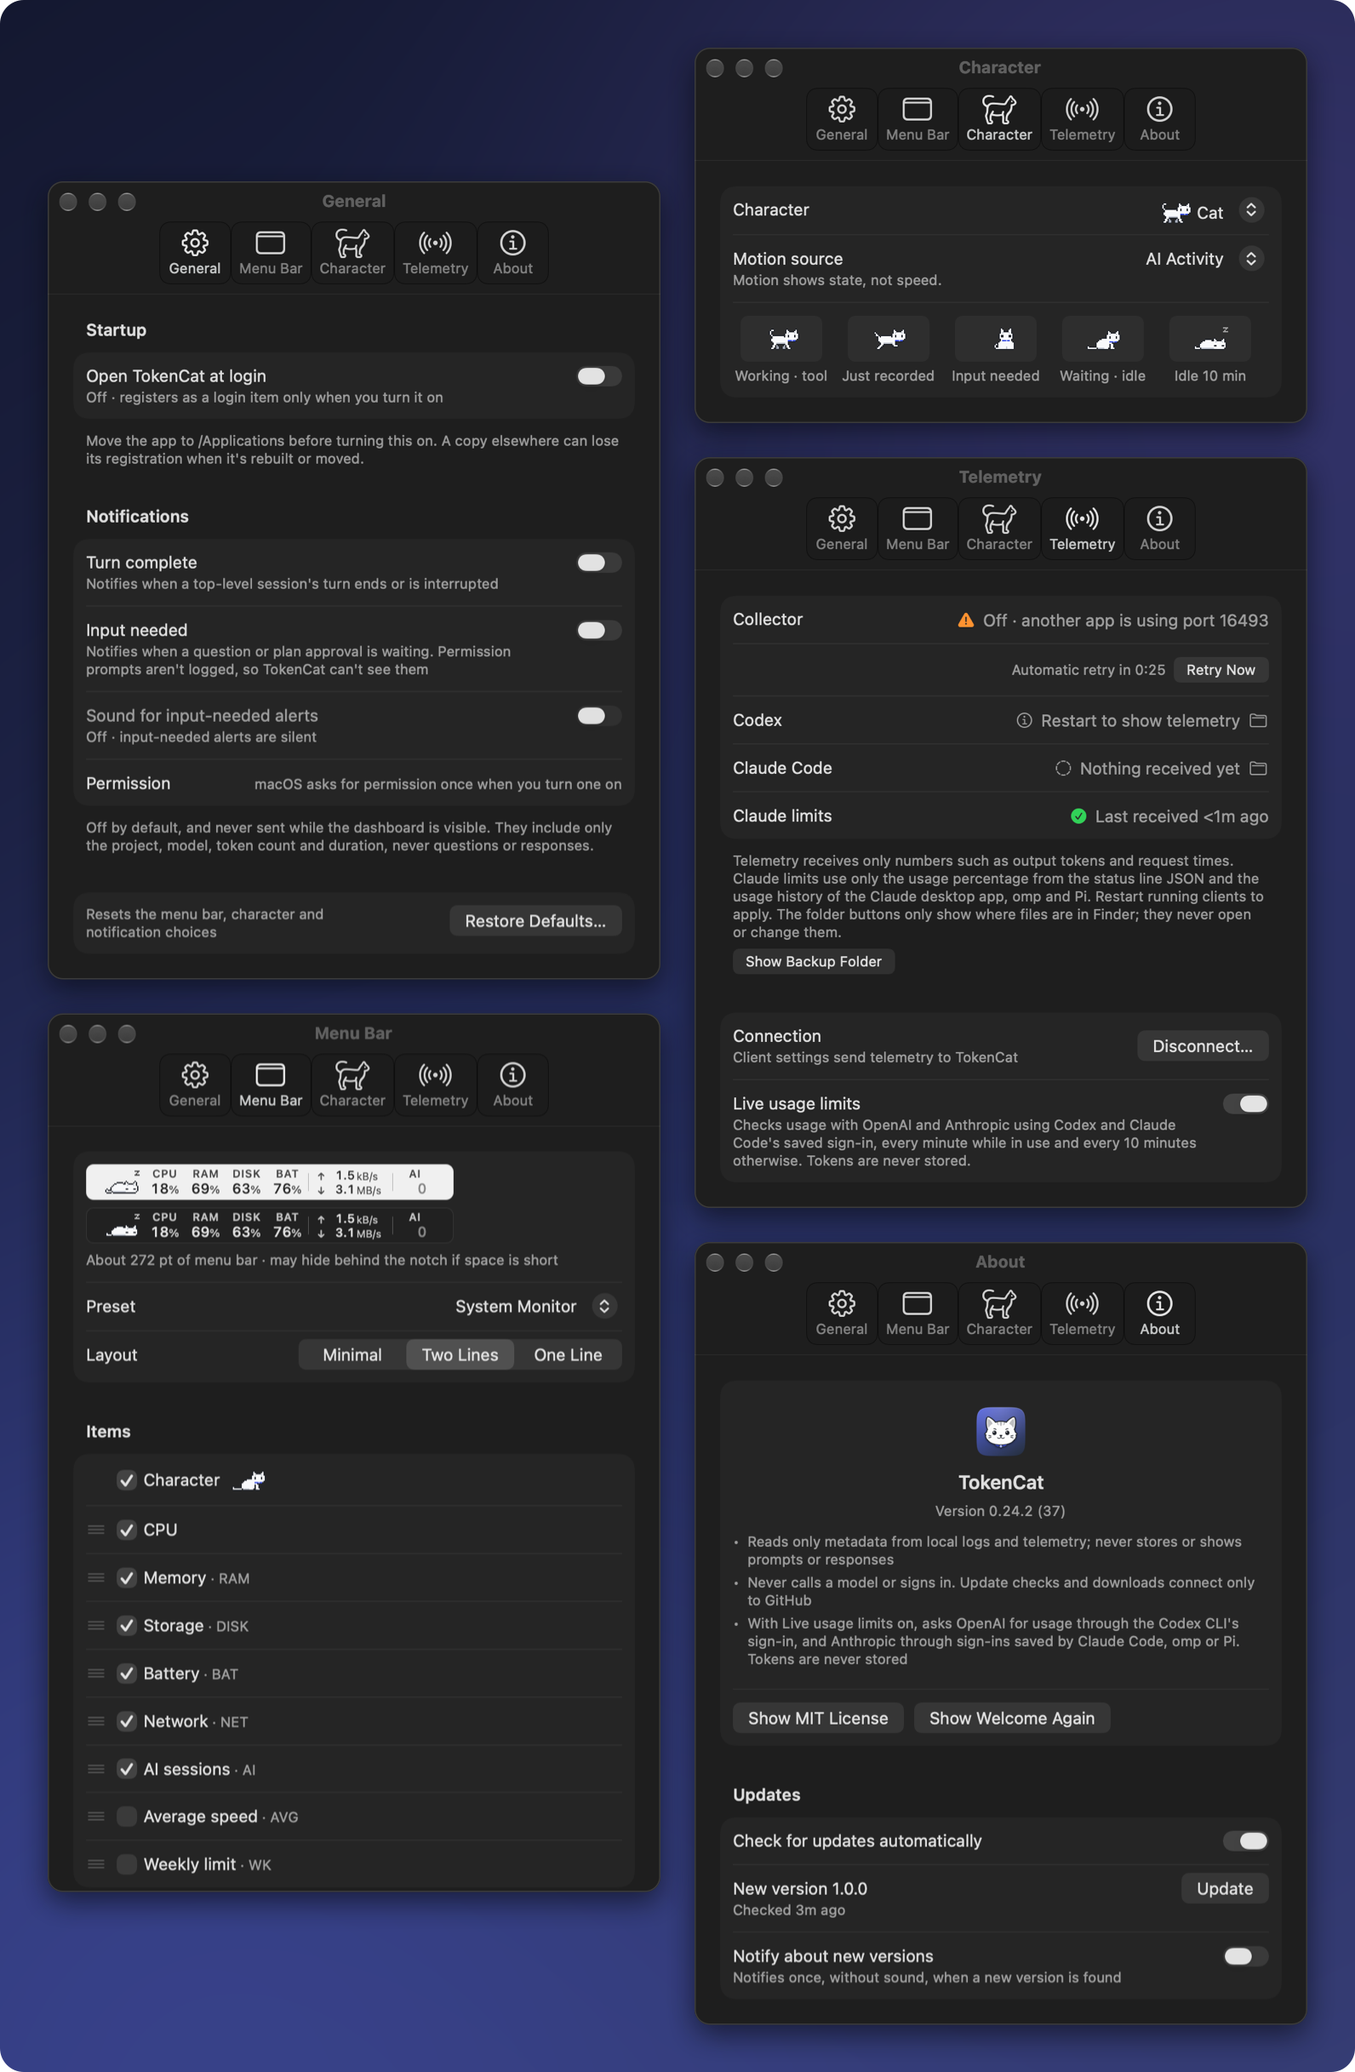
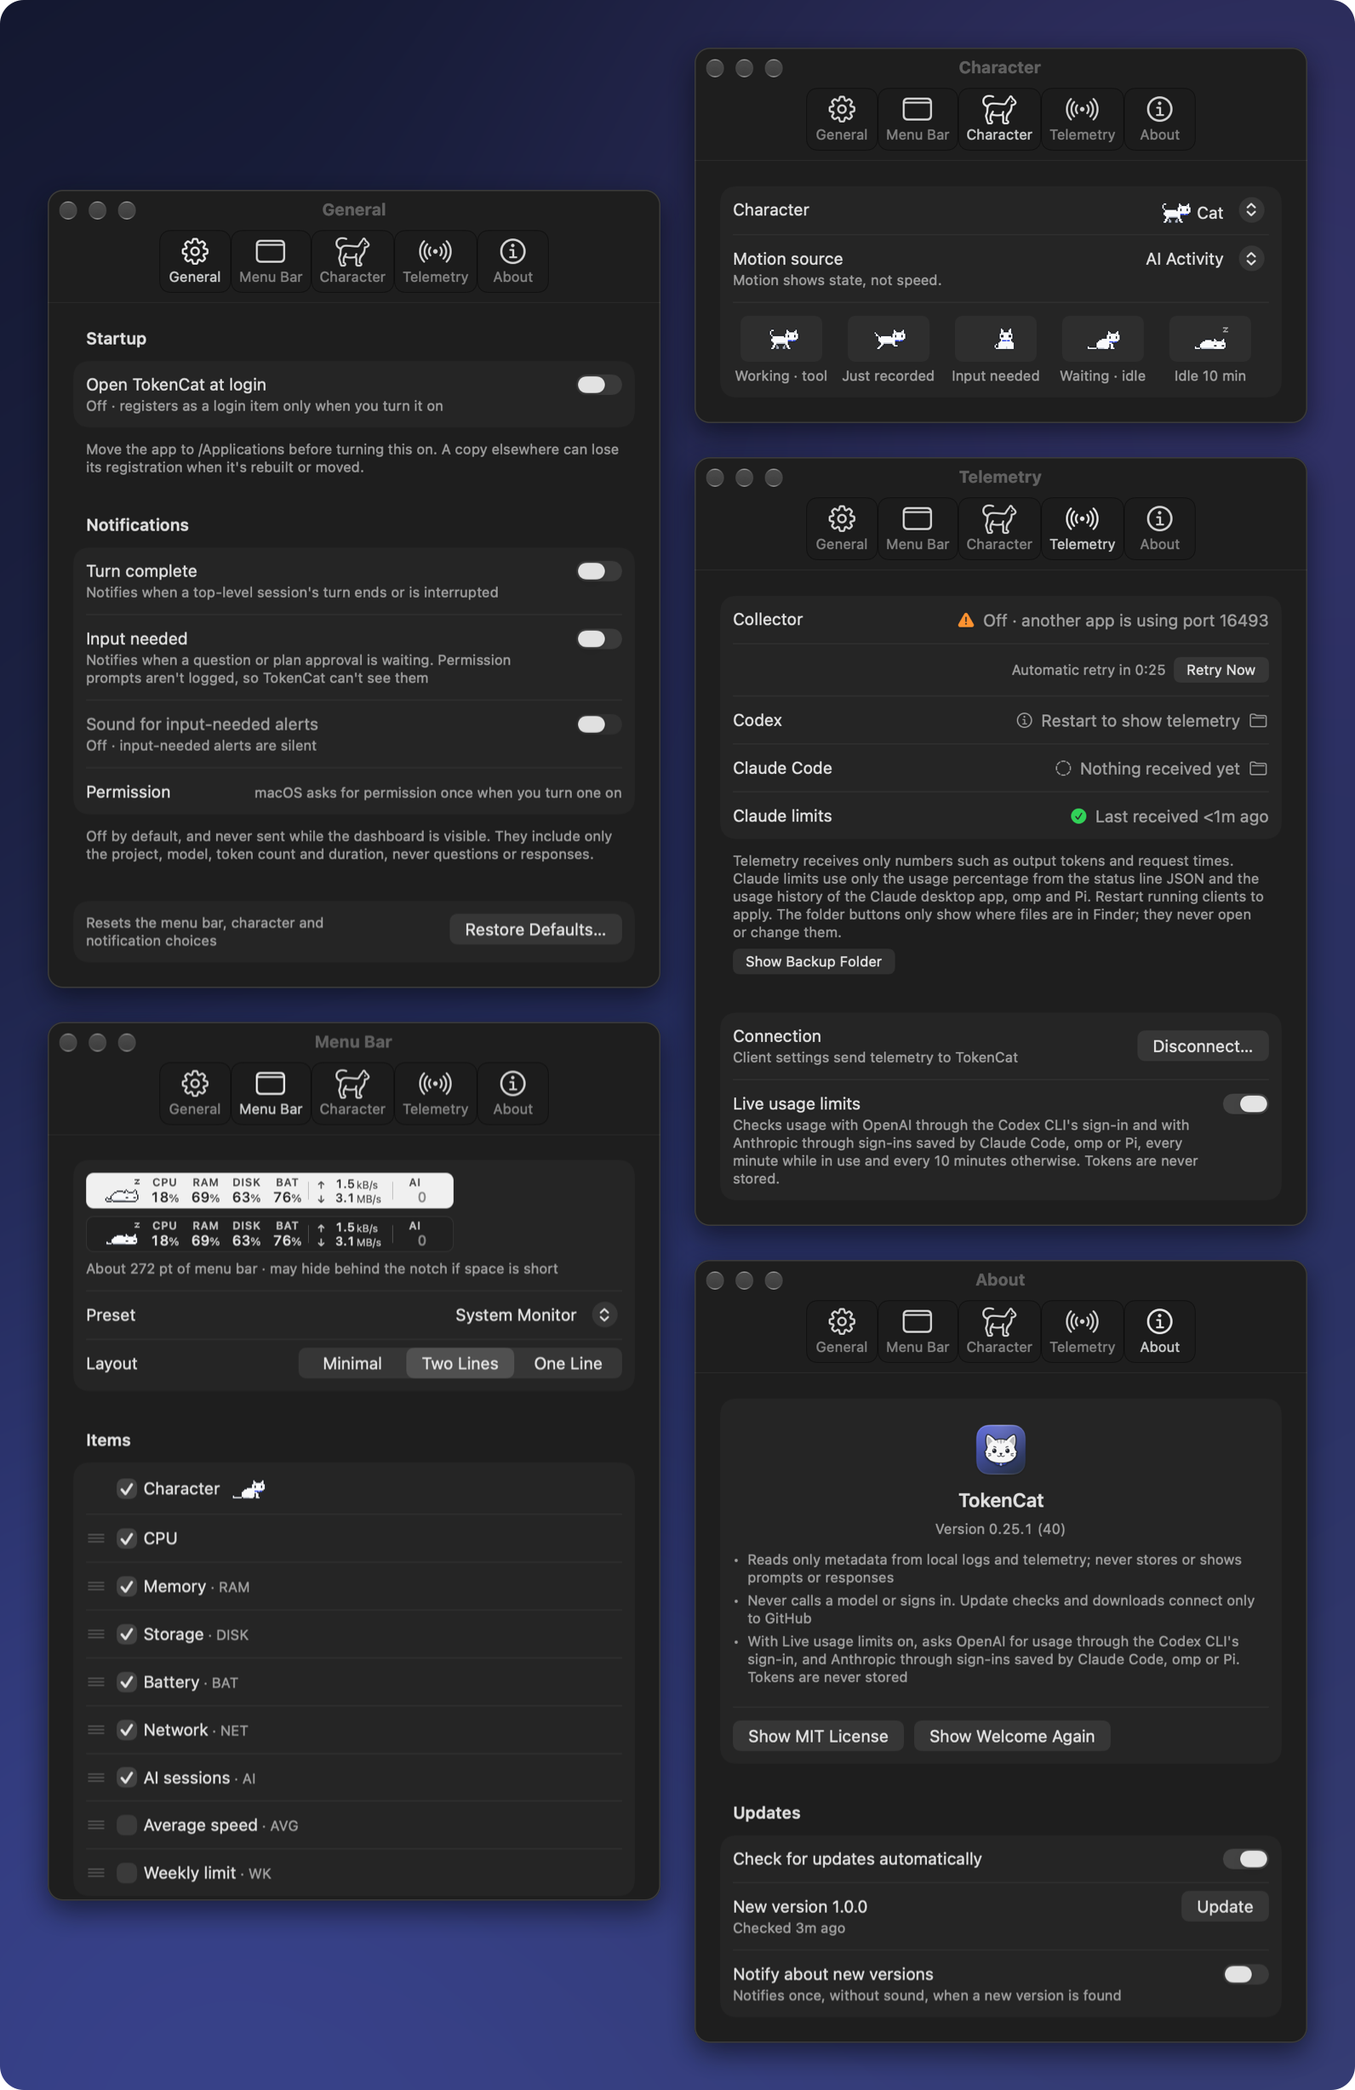
fix: 실시간 한도 확인 설명에 Anthropic은 Claude Code·omp·Pi 로그인으로 묻는다는 사실을 반영(설정·Windows 도움말·README 이미지)

diff --git a/Sources/TokenCat/SettingsView.swift b/Sources/TokenCat/SettingsView.swift
@@ -817,8 +817,8 @@ private struct TelemetryPane: View {
                 connection
                 Toggle(isOn: $preferences.liveUsageLimits) {
                     SettingsLabel(title: loc("실시간 한도 확인", "Live usage limits"),
-                                  subtitle: loc("Codex·Claude Code에 저장된 로그인으로 OpenAI·Anthropic 사용량을 사용 중에는 1분, 평소에는 10분마다 확인합니다. 토큰은 저장하지 않습니다.",
-                                                "Checks usage with OpenAI and Anthropic using Codex and Claude Code's saved sign-in, every minute while in use and every 10 minutes otherwise. Tokens are never stored."))
+                                  subtitle: loc("OpenAI는 Codex CLI, Anthropic은 Claude Code·omp·Pi에 저장된 로그인으로 사용 중에는 1분, 평소에는 10분마다 사용량을 확인합니다. 토큰은 저장하지 않습니다.",
+                                                "Checks usage with OpenAI through the Codex CLI's sign-in and with Anthropic through sign-ins saved by Claude Code, omp or Pi, every minute while in use and every 10 minutes otherwise. Tokens are never stored."))
                 }
                 .help(loc("세션이 실행 중이거나 TokenCat 창이 열려 있으면 1분마다, 그 밖에는 10분마다 확인하고, 화면이나 Mac이 잠자는 동안은 멈춥니다. 만료된 Claude 토큰은 보내지 않고 갱신하지도 않습니다.",
                           "Checks every minute while a session runs or a TokenCat window is open, otherwise every 10 minutes, and pauses while the screens or the Mac sleep. An expired Claude token is never sent or refreshed."))

diff --git a/windows/TokenCat.Core/Presentation/SessionPresentation.cs b/windows/TokenCat.Core/Presentation/SessionPresentation.cs
@@ -344,7 +344,8 @@ public sealed record UsageLimitSummary(double UsedPercent, int? WindowMinutes, D
         var basis = (Live, Source) switch
         {
             (true, TokenSource.Codex) => Loc("Codex에 저장된 로그인으로 OpenAI에서 확인한 계정 사용량입니다.", "Account usage checked with OpenAI using Codex's saved sign-in."),
-            (true, TokenSource.Claude) => Loc("Claude Code에 저장된 로그인으로 Anthropic에서 확인한 계정 사용량입니다.", "Account usage checked with Anthropic using Claude Code's saved sign-in."),
+            (true, TokenSource.Claude) => Loc("이 계정에 해당하는 Claude Code, omp 또는 Pi의 로그인으로 Anthropic에서 확인한 계정 사용량입니다.",
+                "Account usage checked with Anthropic using this account's Claude Code, omp or Pi sign-in."),
             (false, _) when RecordedBy is { } by => Loc($"{by}가 자체 사용량 확인으로 기록한 마지막 {Name} 계정 사용량입니다. 실시간 잔여량이 아니며 {by}를 사용할 때만 갱신됩니다.",
                 $"The last {Name} account usage {by} recorded from its own usage check. It isn't a live balance and updates only while you use {by}."),
             (false, TokenSource.Codex) => Loc("Codex 로그에 마지막으로 기록된 계정 사용량입니다. 실시간 잔여량이 아니며 Codex를 사용할 때만 갱신됩니다.",

diff --git a/windows/TokenCat.App/SettingsWindow.cs b/windows/TokenCat.App/SettingsWindow.cs
@@ -961,8 +961,8 @@ sealed class SettingsView : Grid
         }
         var preferences = actions.Preferences;
         var live = Toggle(Loc("실시간 한도 확인", "Live usage limits"),
-            Loc("Codex·Claude Code에 저장된 로그인으로 OpenAI·Anthropic 사용량을 사용 중에는 1분, 평소에는 10분마다 확인합니다. 토큰은 저장하지 않습니다.",
-                "Checks usage with OpenAI and Anthropic using Codex and Claude Code's saved sign-in, every minute while in use and every 10 minutes otherwise. Tokens are never stored."),
+            Loc("OpenAI는 Codex CLI, Anthropic은 Claude Code·omp·Pi에 저장된 로그인으로 사용 중에는 1분, 평소에는 10분마다 사용량을 확인합니다. 토큰은 저장하지 않습니다.",
+                "Checks usage with OpenAI through the Codex CLI's sign-in and with Anthropic through sign-ins saved by Claude Code, omp or Pi, every minute while in use and every 10 minutes otherwise. Tokens are never stored."),
             preferences.LiveUsageLimits, on => preferences.LiveUsageLimits = on);
         return Page(Section(null, rows, footer), Section(null, [Connection(presented.OptedOut), live]));
     }

diff --git a/docs/DETAILS.ko.md b/docs/DETAILS.ko.md
@@ -68,7 +68,7 @@ AI 숫자는 진행 중이거나 입력을 기다리는 최상위 세션 수(하
 기본 grouped Form 높이는 600pt로 제한하며 긴 메뉴 막대 내용은 창을 늘리지 않고 탭 안에서 스크롤합니다. 최소 표시의 비활성 항목은 VoiceOver로도 순서를 바꾸지 못합니다. 도움말만 바뀌는 메뉴 막대 갱신은 그려진 내용과 고정 폭을 유지하며 접근성 정보만 새로 반영합니다.
 
 - **캐릭터**: 캐릭터(고양이·강아지·햄스터·펭귄·로봇, 모두 같은 자세와 박자), 움직임 기준, 상태별 자세 범례(포인터를 올리면 재생). 캐릭터 표시 여부는 메뉴 막대 탭의 항목 목록에 있습니다.
-- **실측**: 수집기 상태(듣고 있으면 테두리 체크와 `켜짐 · 127.0.0.1:16493`, 자동 재시도와 `지금 다시 시도`는 그 아래 따로 한 줄), 클라이언트별 수신(`아직 받은 실측 없음`은 점선 원)·재시작 필요 여부와 그 클라이언트 설정 파일을 Finder에서 보여 주는 폴더 단추, `Claude 한도` 줄(최근 수신, Claude 데스크톱 앱 기록, omp·Pi 기록, 아직 받지 못함, statusLine 형식이 달라 건너뜀, 원래 명령을 몰라 상태 표시줄이 비어 보일 수 있음, 원래 명령을 백업 기록에서 다시 만듦), 상태 표시줄로는 사용량 한도만 받는다는 안내, `백업 폴더 보기`, 이어서 `연결` 줄의 `연결 해제…`(확인 후 `--disconnect-telemetry`와 같은 일을 메인 스레드 밖에서 하고 자동 연결을 멈춤, 해제한 뒤에는 `다시 연결`)와 `실시간 한도 확인`(기본 켜짐. Codex·Claude Code에 저장된 로그인으로 OpenAI·Anthropic 사용량을 사용 중에는 1분, 평소에는 10분마다 확인하며 토큰은 저장하지 않음. [실시간 한도 확인](#실시간-한도-확인) 참고). 폴더 단추는 파일을 열지 않습니다. 설정이 바뀐 클라이언트는 그 클라이언트의 실측 전송(해석하지 못한 기록 포함)이 처음 도착하면 안내를 지웁니다. 24시간이 지나도록 오지 않으면, 설정 변경 뒤 그 클라이언트를 실제로 사용한 기록이 있을 때만 '이 버전에서 실측을 받지 못했습니다'로 바꾸고, 사용하지 않은 클라이언트는 조용히 둡니다.
+- **실측**: 수집기 상태(듣고 있으면 테두리 체크와 `켜짐 · 127.0.0.1:16493`, 자동 재시도와 `지금 다시 시도`는 그 아래 따로 한 줄), 클라이언트별 수신(`아직 받은 실측 없음`은 점선 원)·재시작 필요 여부와 그 클라이언트 설정 파일을 Finder에서 보여 주는 폴더 단추, `Claude 한도` 줄(최근 수신, Claude 데스크톱 앱 기록, omp·Pi 기록, 아직 받지 못함, statusLine 형식이 달라 건너뜀, 원래 명령을 몰라 상태 표시줄이 비어 보일 수 있음, 원래 명령을 백업 기록에서 다시 만듦), 상태 표시줄로는 사용량 한도만 받는다는 안내, `백업 폴더 보기`, 이어서 `연결` 줄의 `연결 해제…`(확인 후 `--disconnect-telemetry`와 같은 일을 메인 스레드 밖에서 하고 자동 연결을 멈춤, 해제한 뒤에는 `다시 연결`)와 `실시간 한도 확인`(기본 켜짐. OpenAI는 Codex CLI, Anthropic은 Claude Code·omp·Pi에 저장된 로그인으로 사용 중에는 1분, 평소에는 10분마다 사용량을 확인하며 토큰은 저장하지 않음. [실시간 한도 확인](#실시간-한도-확인) 참고). 폴더 단추는 파일을 열지 않습니다. 설정이 바뀐 클라이언트는 그 클라이언트의 실측 전송(해석하지 못한 기록 포함)이 처음 도착하면 안내를 지웁니다. 24시간이 지나도록 오지 않으면, 설정 변경 뒤 그 클라이언트를 실제로 사용한 기록이 있을 때만 '이 버전에서 실측을 받지 못했습니다'로 바꾸고, 사용하지 않은 클라이언트는 조용히 둡니다.
 - **정보**: 아이콘, 버전, 왼쪽 정렬한 세 줄의 개인정보 문구(읽는 것, 인터넷을 쓰는 곳, 실시간 한도 확인이 묻는 것), MIT 라이선스, 처음 안내 다시 보기(TokenCat 정보 창은 ⋯ 메뉴와 빠른 메뉴에 있습니다). 업데이트: `새 버전 자동 확인`(기본 켜짐), 상태 줄(`최신 버전입니다 · 3분 전 확인`과 `지금 확인`, 또는 `새 버전 1.0.0`과 강조한 `업데이트` 하나; 설치 실패면 경고 표시와 전체 문장, 다시 해서 나아질 수 있을 때는 `다시 시도`·`릴리스 페이지 열기`, 아니면 `릴리스 페이지 열기`(임시 위치에서 실행 중이면 `응용 프로그램 폴더 열기`)·`지금 확인`), `새 버전 알림`(기본 꺼짐, macOS 알림 권한이 꺼져 있으면 그 사실과 같은 줄의 `알림 설정 열기`).
 
 알림 제목은 `입력 필요 · 프로젝트` / `턴 완료 · 프로젝트` / `턴 중단 · 프로젝트`, 부제는 `Claude Code · 모델`, 완료 본문은 `12,480 tok · 4분 12초`이며 질문이나 응답 내용은 넣지 않습니다. 같은 실행 안에서는 세션마다 입력 필요 알림과 턴 완료·중단 알림이 각각 최신 하나씩만 남고, 누르면 그 행을 선택합니다. 답하면 입력 필요 알림이 사라집니다. 다시 실행하면 이전 입력 알림을 정리하고, 정리한 알림이 있으면 입력 알림이 켜져 있고 상세 화면이 보이지 않을 때 현재 대기 중인 세션의 알림을 소리 없이 다시 보냅니다. 이전 버전의 세션 식별 정보를 담은 알림은 전달된 알림과 대기 중인 알림에서 모두 지웁니다. 그 밖의 이전 실행 완료 알림은 남지만 누르면 상세 화면만 열며, 행 선택과 알림 교체는 같은 실행 안에서만 적용됩니다. 상세 화면이 실제로 보이는 동안에는 보내지 않습니다. 새 버전 알림은 버전마다 한 번, 소리 없이 보냅니다. 상세 화면이 보이고 VoiceOver가 켜져 있으면 입력 필요와 턴 완료를 5초에 최대 한 번 안내합니다.

diff --git a/docs/DETAILS.md b/docs/DETAILS.md
@@ -68,7 +68,7 @@ About distinguishes GitHub update checks and downloads from Live usage limits, w
 Each native grouped Form is capped at 600 pt; longer Menu Bar content scrolls inside the pane instead of making the window taller. Disabled Minimal item rows cannot be reordered through VoiceOver either. Help-only menu bar updates keep painted content and fixed widths while refreshing accessibility information.
 
 - **Character**: the character (cat, dog, hamster, penguin or robot, all with the same poses and pace), motion source, and a legend of poses by state (plays on hover). Whether the character shows is in the Menu Bar tab's item list.
-- **Telemetry**: collector status (`On · 127.0.0.1:16493` with an outline check when it's listening; the retry and its `Retry Now` on a row of their own under it), whether each client's measurements are arriving (`Nothing received yet` with a dashed circle) or need a restart, with a folder button that shows that client's config file in Finder, the `Claude limits` row (last received, recorded by the Claude desktop app, recorded by omp or Pi, nothing received yet, skipped because the statusLine format is different, the status line may look empty because the original command is unknown, the original command was recreated from the backup record), a note that only usage limits are received from the status line, `Show Backup Folder`, then `Connection` with `Disconnect…` (after confirmation, does what `--disconnect-telemetry` does, off the main thread, and stops automatic connection) or, once disconnected, `Reconnect`, and `Live usage limits` (on by default; checks usage with OpenAI and Anthropic using Codex and Claude Code's saved sign-in, every minute while in use and every 10 minutes otherwise, and never stores tokens; see [Live usage limits](#live-usage-limits)). The folder buttons never open the files. For a client whose settings changed, the notice clears when that client's first telemetry (including records that couldn't be parsed) arrives. If nothing arrives within 24 hours, it changes to 'No telemetry from this version' only if there's a record of that client actually being used after the settings change; clients that weren't used are left quiet.
+- **Telemetry**: collector status (`On · 127.0.0.1:16493` with an outline check when it's listening; the retry and its `Retry Now` on a row of their own under it), whether each client's measurements are arriving (`Nothing received yet` with a dashed circle) or need a restart, with a folder button that shows that client's config file in Finder, the `Claude limits` row (last received, recorded by the Claude desktop app, recorded by omp or Pi, nothing received yet, skipped because the statusLine format is different, the status line may look empty because the original command is unknown, the original command was recreated from the backup record), a note that only usage limits are received from the status line, `Show Backup Folder`, then `Connection` with `Disconnect…` (after confirmation, does what `--disconnect-telemetry` does, off the main thread, and stops automatic connection) or, once disconnected, `Reconnect`, and `Live usage limits` (on by default; checks usage with OpenAI through the Codex CLI's sign-in and with Anthropic through sign-ins saved by Claude Code, omp or Pi, every minute while in use and every 10 minutes otherwise, and never stores tokens; see [Live usage limits](#live-usage-limits)). The folder buttons never open the files. For a client whose settings changed, the notice clears when that client's first telemetry (including records that couldn't be parsed) arrives. If nothing arrives within 24 hours, it changes to 'No telemetry from this version' only if there's a record of that client actually being used after the settings change; clients that weren't used are left quiet.
 - **About**: icon, version, the privacy statement as three left-aligned lines (what is read, where it goes online, what Live usage limits asks), MIT License, Show Welcome Again (the About TokenCat window is in the ⋯ menu and the quick menu). Updates: `Check for updates automatically` (on by default), a status line (`Up to date · Checked 3m ago` with `Check Now`, or `New version 1.0.0` with only a prominent `Update`; on an install failure, a warning mark and the full sentence, with `Try Again` and `Open Release Page` when a retry might help, otherwise `Open Release Page` (or `Open Applications Folder` when running from a temporary location) and `Check Now`), and `Notify about new versions` (off by default; when the macOS notification permission is off, it says so, with `Open Notification Settings` in the same row).
 
 Notification titles are `Input needed · project` / `Turn complete · project` / `Turn interrupted · project`, the subtitle is `Claude Code · model`, and a completion body is `12,480 tok · 4m 12s`; the question or response text is never included. Within one run, each session keeps only the latest input-needed notification and the latest turn complete or interrupted notification, and clicking one selects that row. Input-needed notifications disappear when you answer. On relaunch, old input notifications are removed; if any were removed, currently waiting sessions are silently reposted when input notifications are enabled and the dashboard is hidden. Notifications carrying older versions' session identities are removed from both delivered and pending notifications. Other previous-run completion notifications remain, but clicking them opens only the dashboard; routing and replacement apply only within one run. Nothing is sent while the dashboard is actually visible. A new-version notification is sent once per version, without sound. While the dashboard is visible and VoiceOver is on, input needed and turn complete are announced at most once every 5 seconds.
